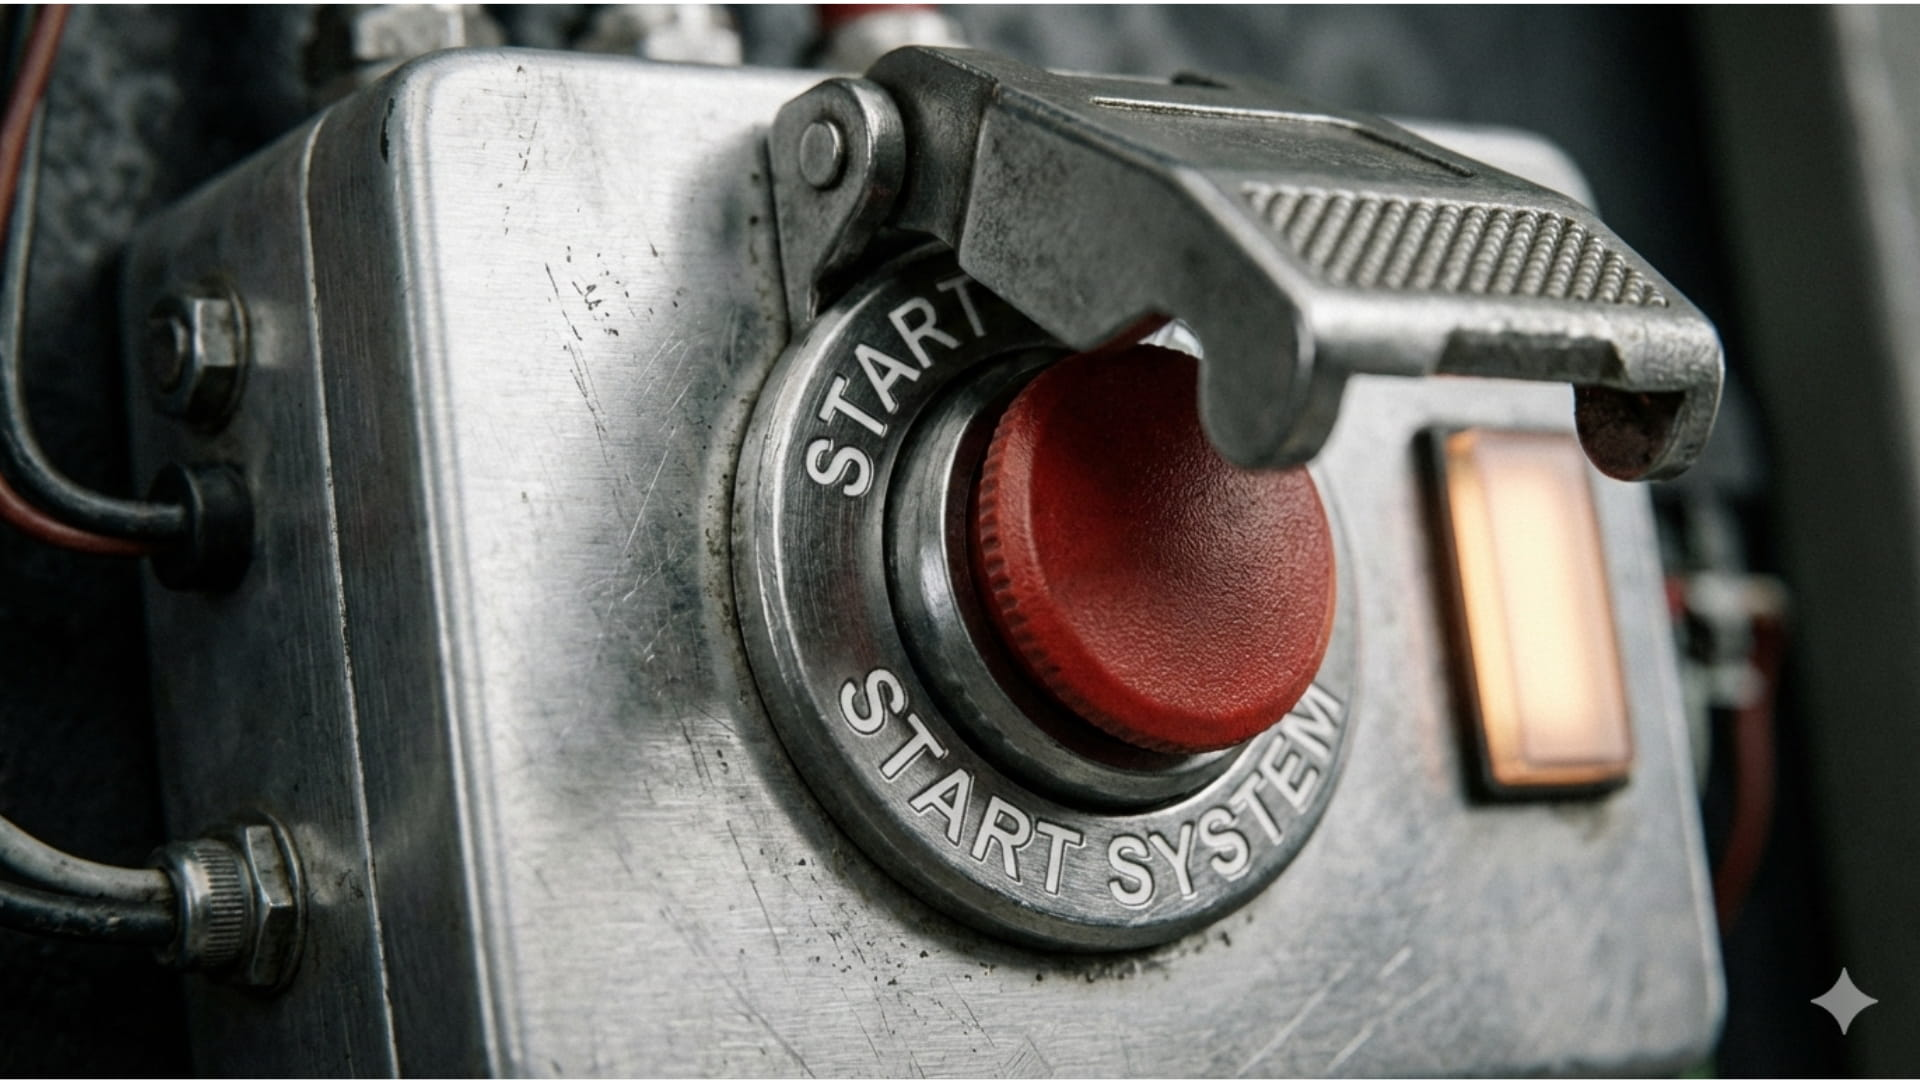
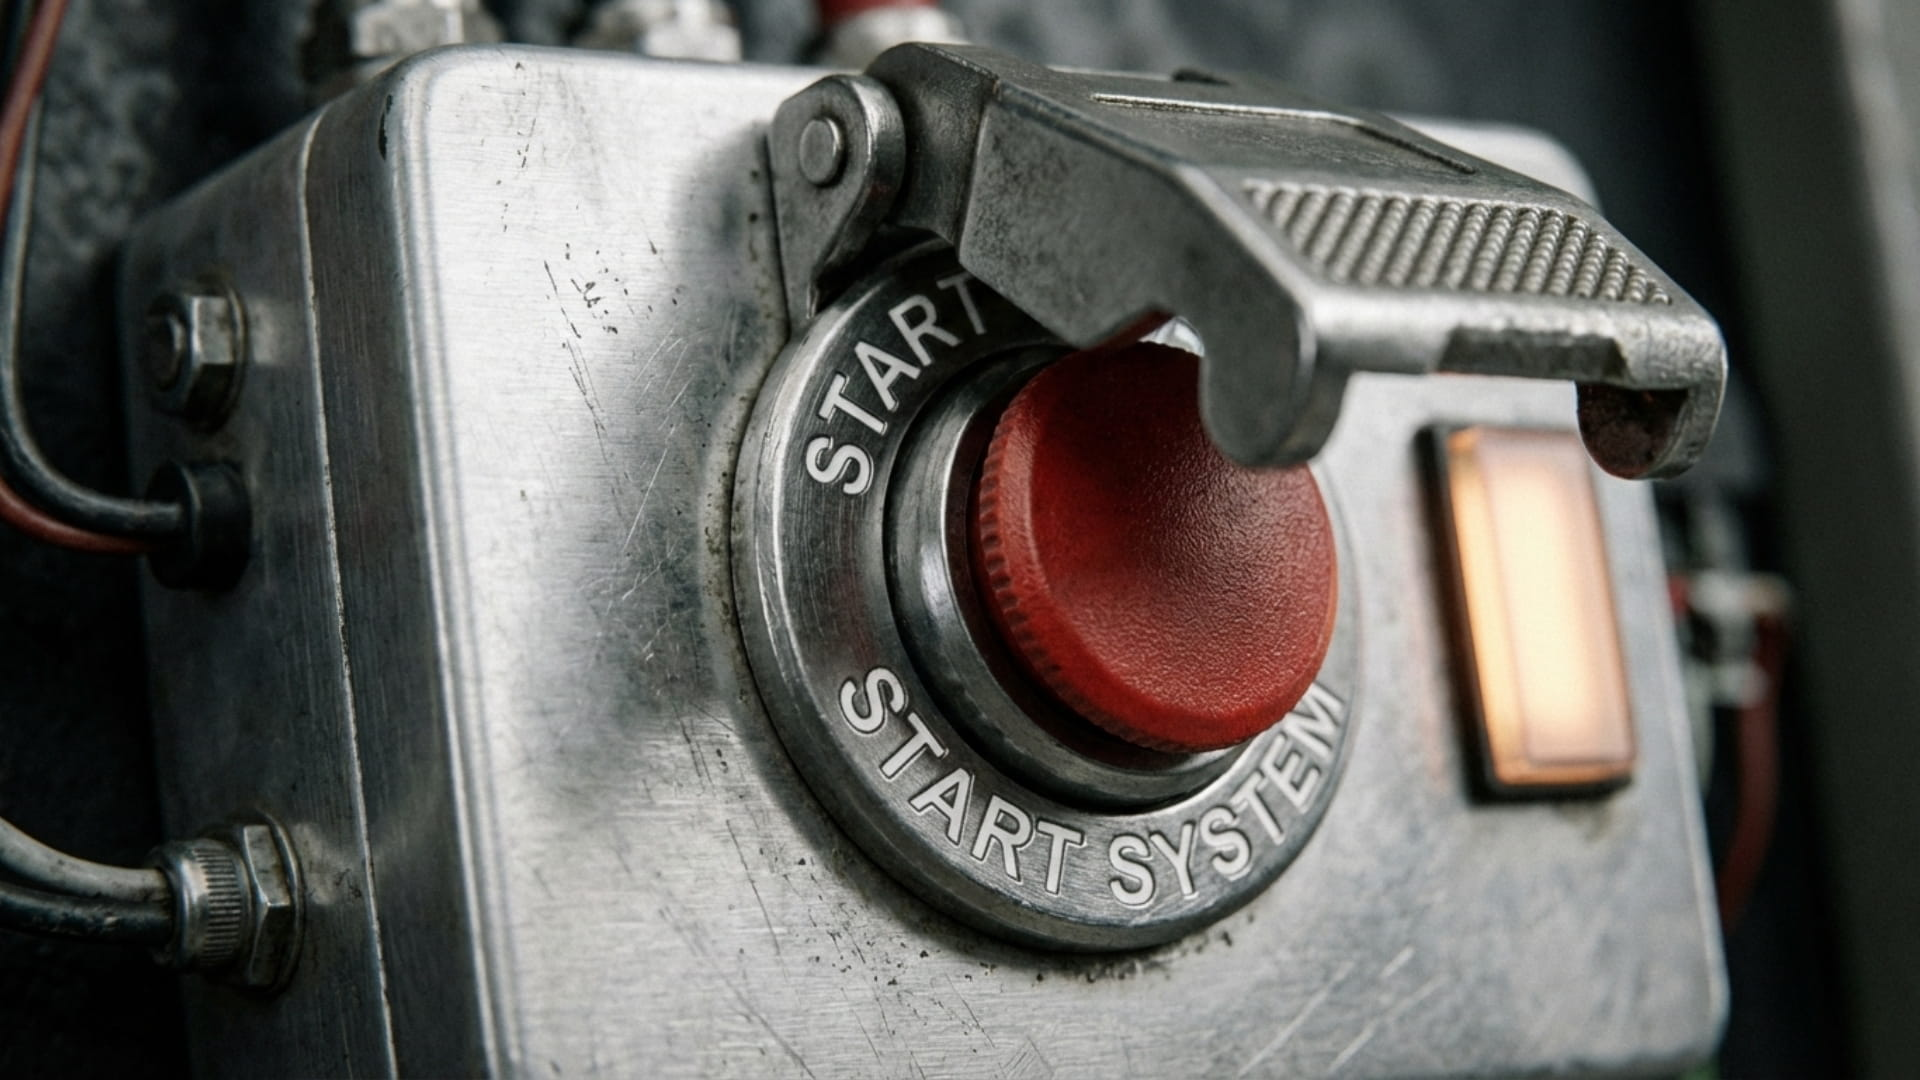
style(atmosphere): Apply concrete texture to global body background
- Add fondo-global-hormigon.jpg as body background with overlay blend mode
- background-attachment: fixed for premium scroll parallax effect
- background-size: 500px for fine grain texture
- Include updated servilleta images (Gemini logo removed)

diff --git a/src/app/globals.css b/src/app/globals.css
@@ -43,7 +43,12 @@
    BASE STYLES - QUIET LUXURY
    ======================================== */
 body {
-  background-color: var(--bg-main);
+  background-color: var(--bg-obsidian);
+  background-image: url('/images/servilleta/fondo-global-hormigon.jpg');
+  background-repeat: repeat;
+  background-size: 500px;
+  background-attachment: fixed;
+  background-blend-mode: overlay;
   color: var(--text-main);
 }
 
